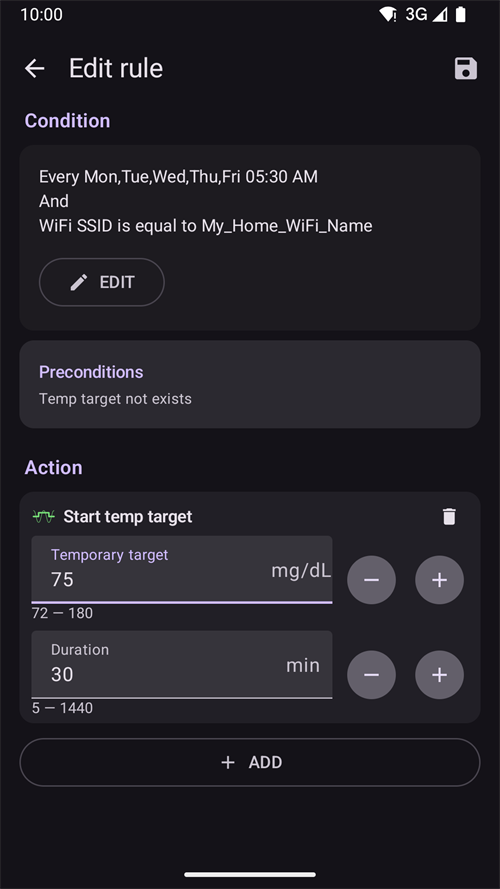
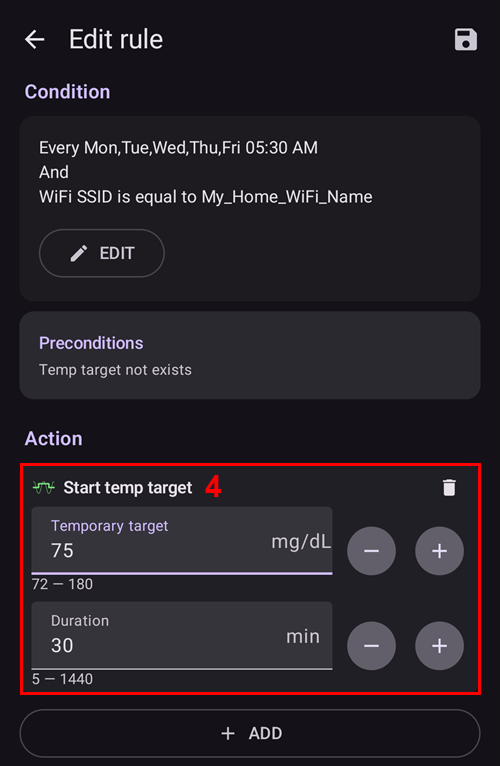
Added missing indications

diff --git a/docs/EN/CompatiblePumps/Accu-Chek-Insight-Pump.md b/docs/EN/CompatiblePumps/Accu-Chek-Insight-Pump.md
@@ -59,8 +59,8 @@ Note: AAPS will write data always in **first basal rate profile in the pump**.
 (accu-chek-insight-pairing)=
 ### Pairing
 
-* On the pump screen, tap **Insight pairing**. The pairing wizard opens and searches for nearby Bluetooth devices (below left).
-* On the Insight pump, go to **Menu** > **Settings** > **Communication** > **Add Device**. The pump shows the following screen (below right) with the serial number of the pump.
+* On the pump screen, tap **Insight pairing**. The pairing wizard opens and searches for nearby Bluetooth devices (top of the picture below).
+* On the Insight pump, go to **Menu** > **Settings** > **Communication** > **Add Device**. The pump shows the following screen (bottom of the picture below) with the serial number of the pump.
 
    ![Screenshot of Insight Pairing 1](../images/Insight_Pairing1.png)
 
@@ -82,7 +82,7 @@ Note: AAPS will write data always in **first basal rate profile in the pump**.
 
    ```{admonition} Older screenshot
    :class: note
-   Apart from the phone half of the first picture, the pairing screenshots above are from an earlier **AAPS** version and may look different in **AAPS** 4.
+   Apart from the top of the first picture, the pairing screenshots above are from an earlier **AAPS** version and may look different in **AAPS** 4.
    ```
 
 * To remove the pairing, tap **Unpair** on the pump screen and confirm **Reset pairing information?**. The **Insight pairing** button then appears again.

diff --git a/docs/EN/CompatiblePumps/OmnipodEros.md b/docs/EN/CompatiblePumps/OmnipodEros.md
@@ -398,7 +398,14 @@ This feature is useful for verifying boluses, TBRs, basal changes that were give
 
 2. The **Pod History** screen lists all pod actions and their results, newest first, grouped by day. By default **All** is selected. Tap one of the filter buttons at the top to show only one category. Use the back arrow at the top left to return to the Omnipod pump screen.
 
-   > ![Pod_History_3](../images/omnipod/Pod_History_3.png) ![Pod_History_4](../images/omnipod/Pod_History_4.png)
+   > ![Pod History screen with the filter buttons](../images/omnipod/Pod_History_3.png)
+
+   > ![Pod_History_4](../images/omnipod/Pod_History_4.png)
+
+   ```{admonition} Older screenshot
+   :class: note
+   The second screenshot is from an earlier **AAPS** version and may look different in **AAPS** 4.
+   ```
 
 ### View RileyLink Settings and History
 

diff --git a/docs/EN/DailyLifeWithAaps/Automations.md b/docs/EN/DailyLifeWithAaps/Automations.md
@@ -292,11 +292,11 @@ and while being connected to a home Wi-Fi network (3).
 It will then set a **Temp Target** of 75 mg/dL for 30 minutes (4).
 One of the advantages of including the location is that it will not trigger if the user is traveling on vacation, for instance.
 
-![Alt text](../images/Automations/automation_example_wifi_rule.png)
+![Wi-Fi rule: task name (1), weekday time condition (2) and Wi-Fi SSID condition (3)](../images/Automations/automation_example_wifi_rule.png)
 
 Scroll down to see the action: a **Temp Target** of 75 mg/dL for 30 minutes (4).
 
-![Wi-Fi rule action](../images/Automations/automation_example_wifi_action.png)
+![Wi-Fi rule action: Start temp target of 75 mg/dL for 30 minutes (4)](../images/Automations/automation_example_wifi_action.png)
 
 Here is the screenshot detailing the **Automation** triggers:
 
